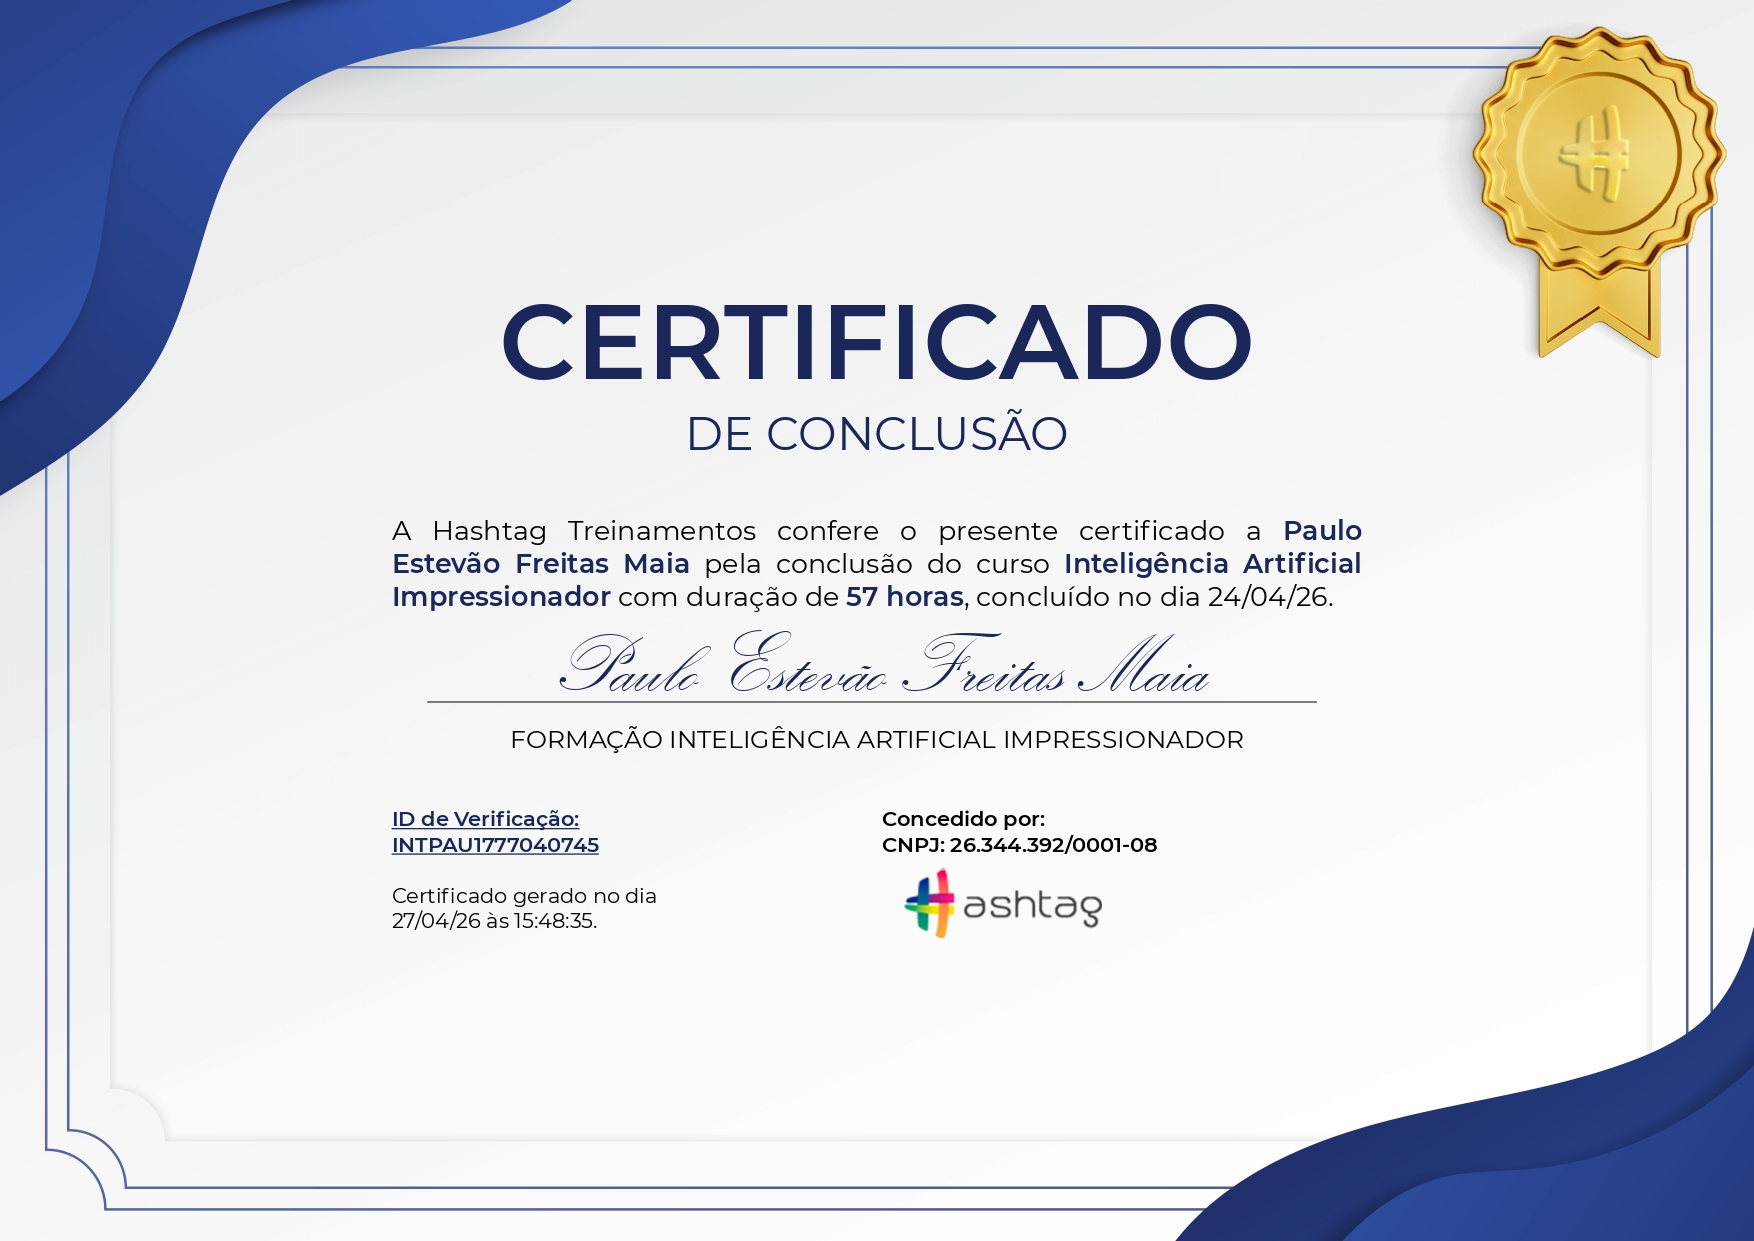
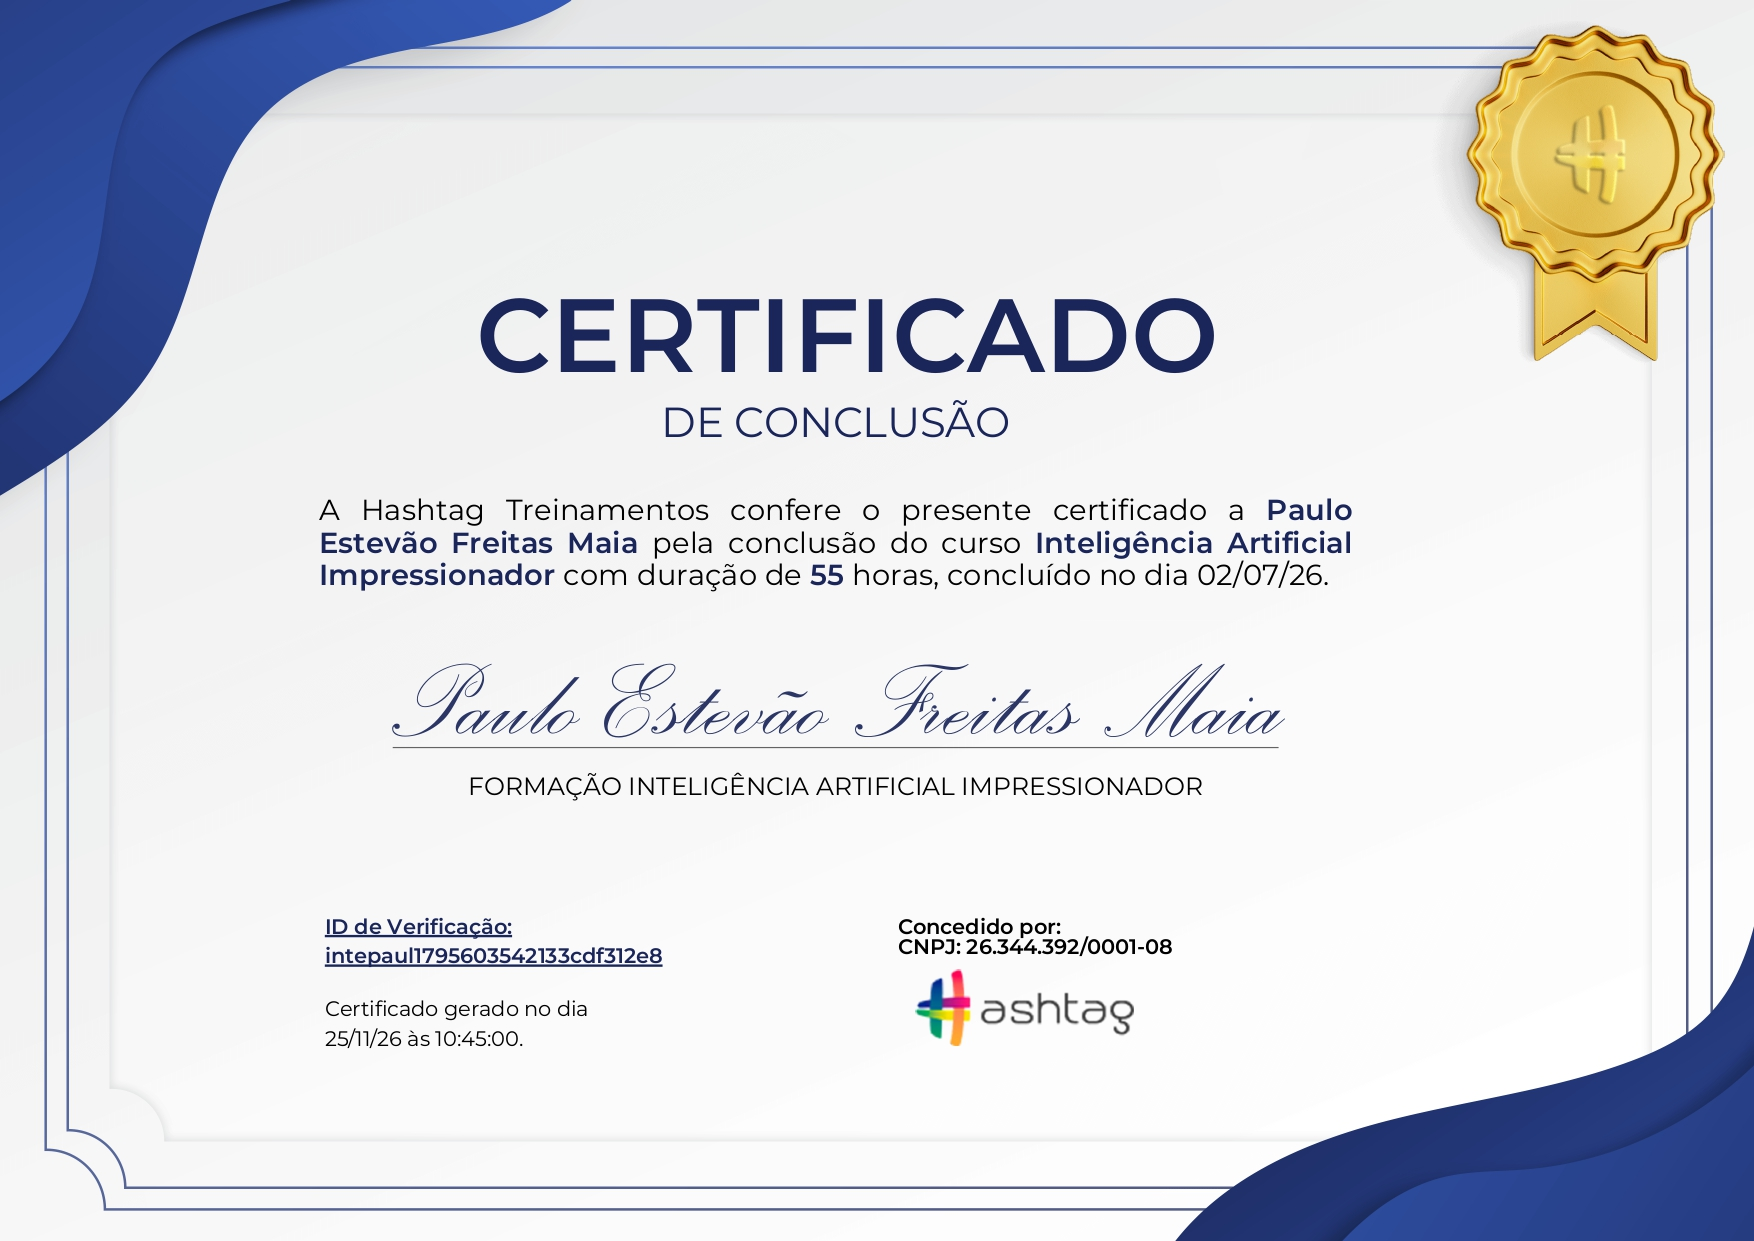
Atualiza certificados e amplia imagens

diff --git a/index.html b/index.html
@@ -734,6 +734,35 @@
         }
         #educacao .card-hover:hover,
         #certificacoes .card-hover:hover { transform: none; border-color: transparent; box-shadow: none; }
+        #certificacoes img { cursor: zoom-in; }
+        #certificate-image-dialog {
+            width: min(96vw, 1100px);
+            max-width: none;
+            max-height: 94vh;
+            padding: 3.5rem 1rem 1rem;
+            border: 1px solid rgba(167, 168, 248, .35);
+            border-radius: 1rem;
+            background: rgba(8, 10, 33, .98);
+            color: #F6F9DC;
+        }
+        #certificate-image-dialog::backdrop { background: rgba(2, 4, 20, .88); }
+        #certificate-image-dialog img {
+            display: block;
+            max-width: 100%;
+            max-height: calc(94vh - 5rem);
+            margin: 0 auto;
+            object-fit: contain;
+        }
+        #certificate-image-close {
+            position: absolute;
+            top: .75rem;
+            right: .75rem;
+            padding: .45rem .8rem;
+            border: 1px solid rgba(167, 168, 248, .45);
+            border-radius: .5rem;
+            background: #1f234b;
+            color: #F6F9DC;
+        }
         #certificacoes img {
             display: block;
             width: 100%;
@@ -1176,6 +1205,27 @@
                     <h3 class="text-2xl font-bold text-[#A7A8F8] mb-6">Certificados e Reconhecimentos</h3>
                     
                     <div class="space-y-6">                       
+                        <!-- Formação SQL e Banco de Dados -->
+                        <div class="bg-[#080A21] p-6 rounded-lg border border-[#A7A8F8]/20 card-hover">
+                            <div class="flex flex-col md:flex-row md:items-center">
+                                <div class="md:w-1/4 mb-4 md:mb-0">
+                                    <img src="imagens/certificados/certificado-sql.jpg" alt="Certificado de conclusão do curso SQL Impressionador" class="rounded-lg" loading="lazy">
+                                </div>
+                                <div class="md:w-3/4 md:pl-6">
+                                    <h4 class="text-xl font-bold mb-2">Formação SQL e Banco de Dados</h4>
+                                    <p class="text-[#A7A8F8] mb-3">Hashtag Treinamentos | nov de 2026</p>
+                                    <p class="text-[#F6F9DC]/80">
+                                        A Hashtag Treinamentos confere o presente certificado a Paulo Estevão Freitas Maia pela conclusão do curso SQL Impressionador com duração de 92 horas, concluído no dia 12/11/26. Credencial sql-paul1795597028889ff8fecf6.
+                                    </p>
+                                    <a href="https://portal.hashtagtreinamentos.com/certificate/verify/sql-paul1795597028889ff8fecf6"
+                                    target="_blank" rel="noopener noreferrer"
+                                    class="inline-block mt-3 text-[#A7A8F8] hover:underline">
+                                    Ver certificado <i class="fas fa-external-link-alt ml-1"></i>
+                                    </a>
+                                </div>
+                            </div>
+                        </div>
+
                         <!-- Certificação 1 -->
                         <div class="bg-[#080A21] p-6 rounded-lg border border-[#A7A8F8]/20 card-hover">
                             <div class="flex flex-col md:flex-row md:items-center">
@@ -1184,11 +1234,11 @@
                                 </div>
                                 <div class="md:w-3/4 md:pl-6">
                                     <h4 class="text-xl font-bold mb-2">Formação Inteligência Artificial</h4>
-                                    <p class="text-[#A7A8F8] mb-3">Hashtag Treinamentos | abr de 2026</p>
+                                    <p class="text-[#A7A8F8] mb-3">Hashtag Treinamentos | jul de 2026</p>
                                     <p class="text-[#F6F9DC]/80">
-                                        A Hashtag Treinamentos confere o presente certificado a Paulo Estevão Freitas Maia pela conclusão do curso Inteligência Artificial Impressionador com duração de 57 horas, concluído no dia 24/04/26. Credencial INTPAU1777040745.
+                                        A Hashtag Treinamentos confere o presente certificado a Paulo Estevão Freitas Maia pela conclusão do curso Inteligência Artificial Impressionador com duração de 55 horas, concluído no dia 02/07/26. Credencial intepaul1795603542133cdf312e8.
                                     </p>
-                                    <a href="https://portalhashtag.com/validacao-certificado/1777040744775x475404270750446000" 
+                                    <a href="https://portal.hashtagtreinamentos.com/certificate/verify/intepaul1795603542133cdf312e8"
                                     target="_blank" rel="noopener noreferrer"
                                     class="inline-block mt-3 text-[#A7A8F8] hover:underline">
                                     Ver credencial <i class="fas fa-external-link-alt ml-1"></i>
@@ -1995,6 +2045,29 @@ dialog.addEventListener('click', event => { if (event.target === dialog) dialog.
     <!-- JavaScript -->
     <script>
         document.addEventListener('DOMContentLoaded', function() {
+            const certificateDialog = document.getElementById('certificate-image-dialog');
+            const expandedCertificate = document.getElementById('certificate-image-expanded');
+            document.querySelectorAll('#certificacoes img').forEach(image => {
+                image.tabIndex = 0;
+                image.setAttribute('role', 'button');
+                image.setAttribute('aria-label', 'Ampliar ' + image.alt);
+                image.addEventListener('click', () => {
+                    expandedCertificate.src = image.src;
+                    expandedCertificate.alt = image.alt;
+                    certificateDialog.showModal();
+                });
+                image.addEventListener('keydown', event => {
+                    if (event.key === 'Enter' || event.key === ' ') {
+                        event.preventDefault();
+                        image.click();
+                    }
+                });
+            });
+            document.getElementById('certificate-image-close').addEventListener('click', () => certificateDialog.close());
+            certificateDialog.addEventListener('click', event => {
+                if (event.target === certificateDialog) certificateDialog.close();
+            });
+
             document.getElementById('year').textContent = new Date().getFullYear();
 
             const mobileMenuButton = document.getElementById('mobile-menu-button');
@@ -2441,5 +2514,9 @@ dialog.addEventListener('click', event => { if (event.target === dialog) dialog.
         });
 
     </script>  
+    <dialog id="certificate-image-dialog" aria-label="Imagem ampliada do certificado">
+        <button id="certificate-image-close" type="button" aria-label="Fechar imagem ampliada">Fechar ×</button>
+        <img id="certificate-image-expanded" alt="">
+    </dialog>
 </body>
 </html>
